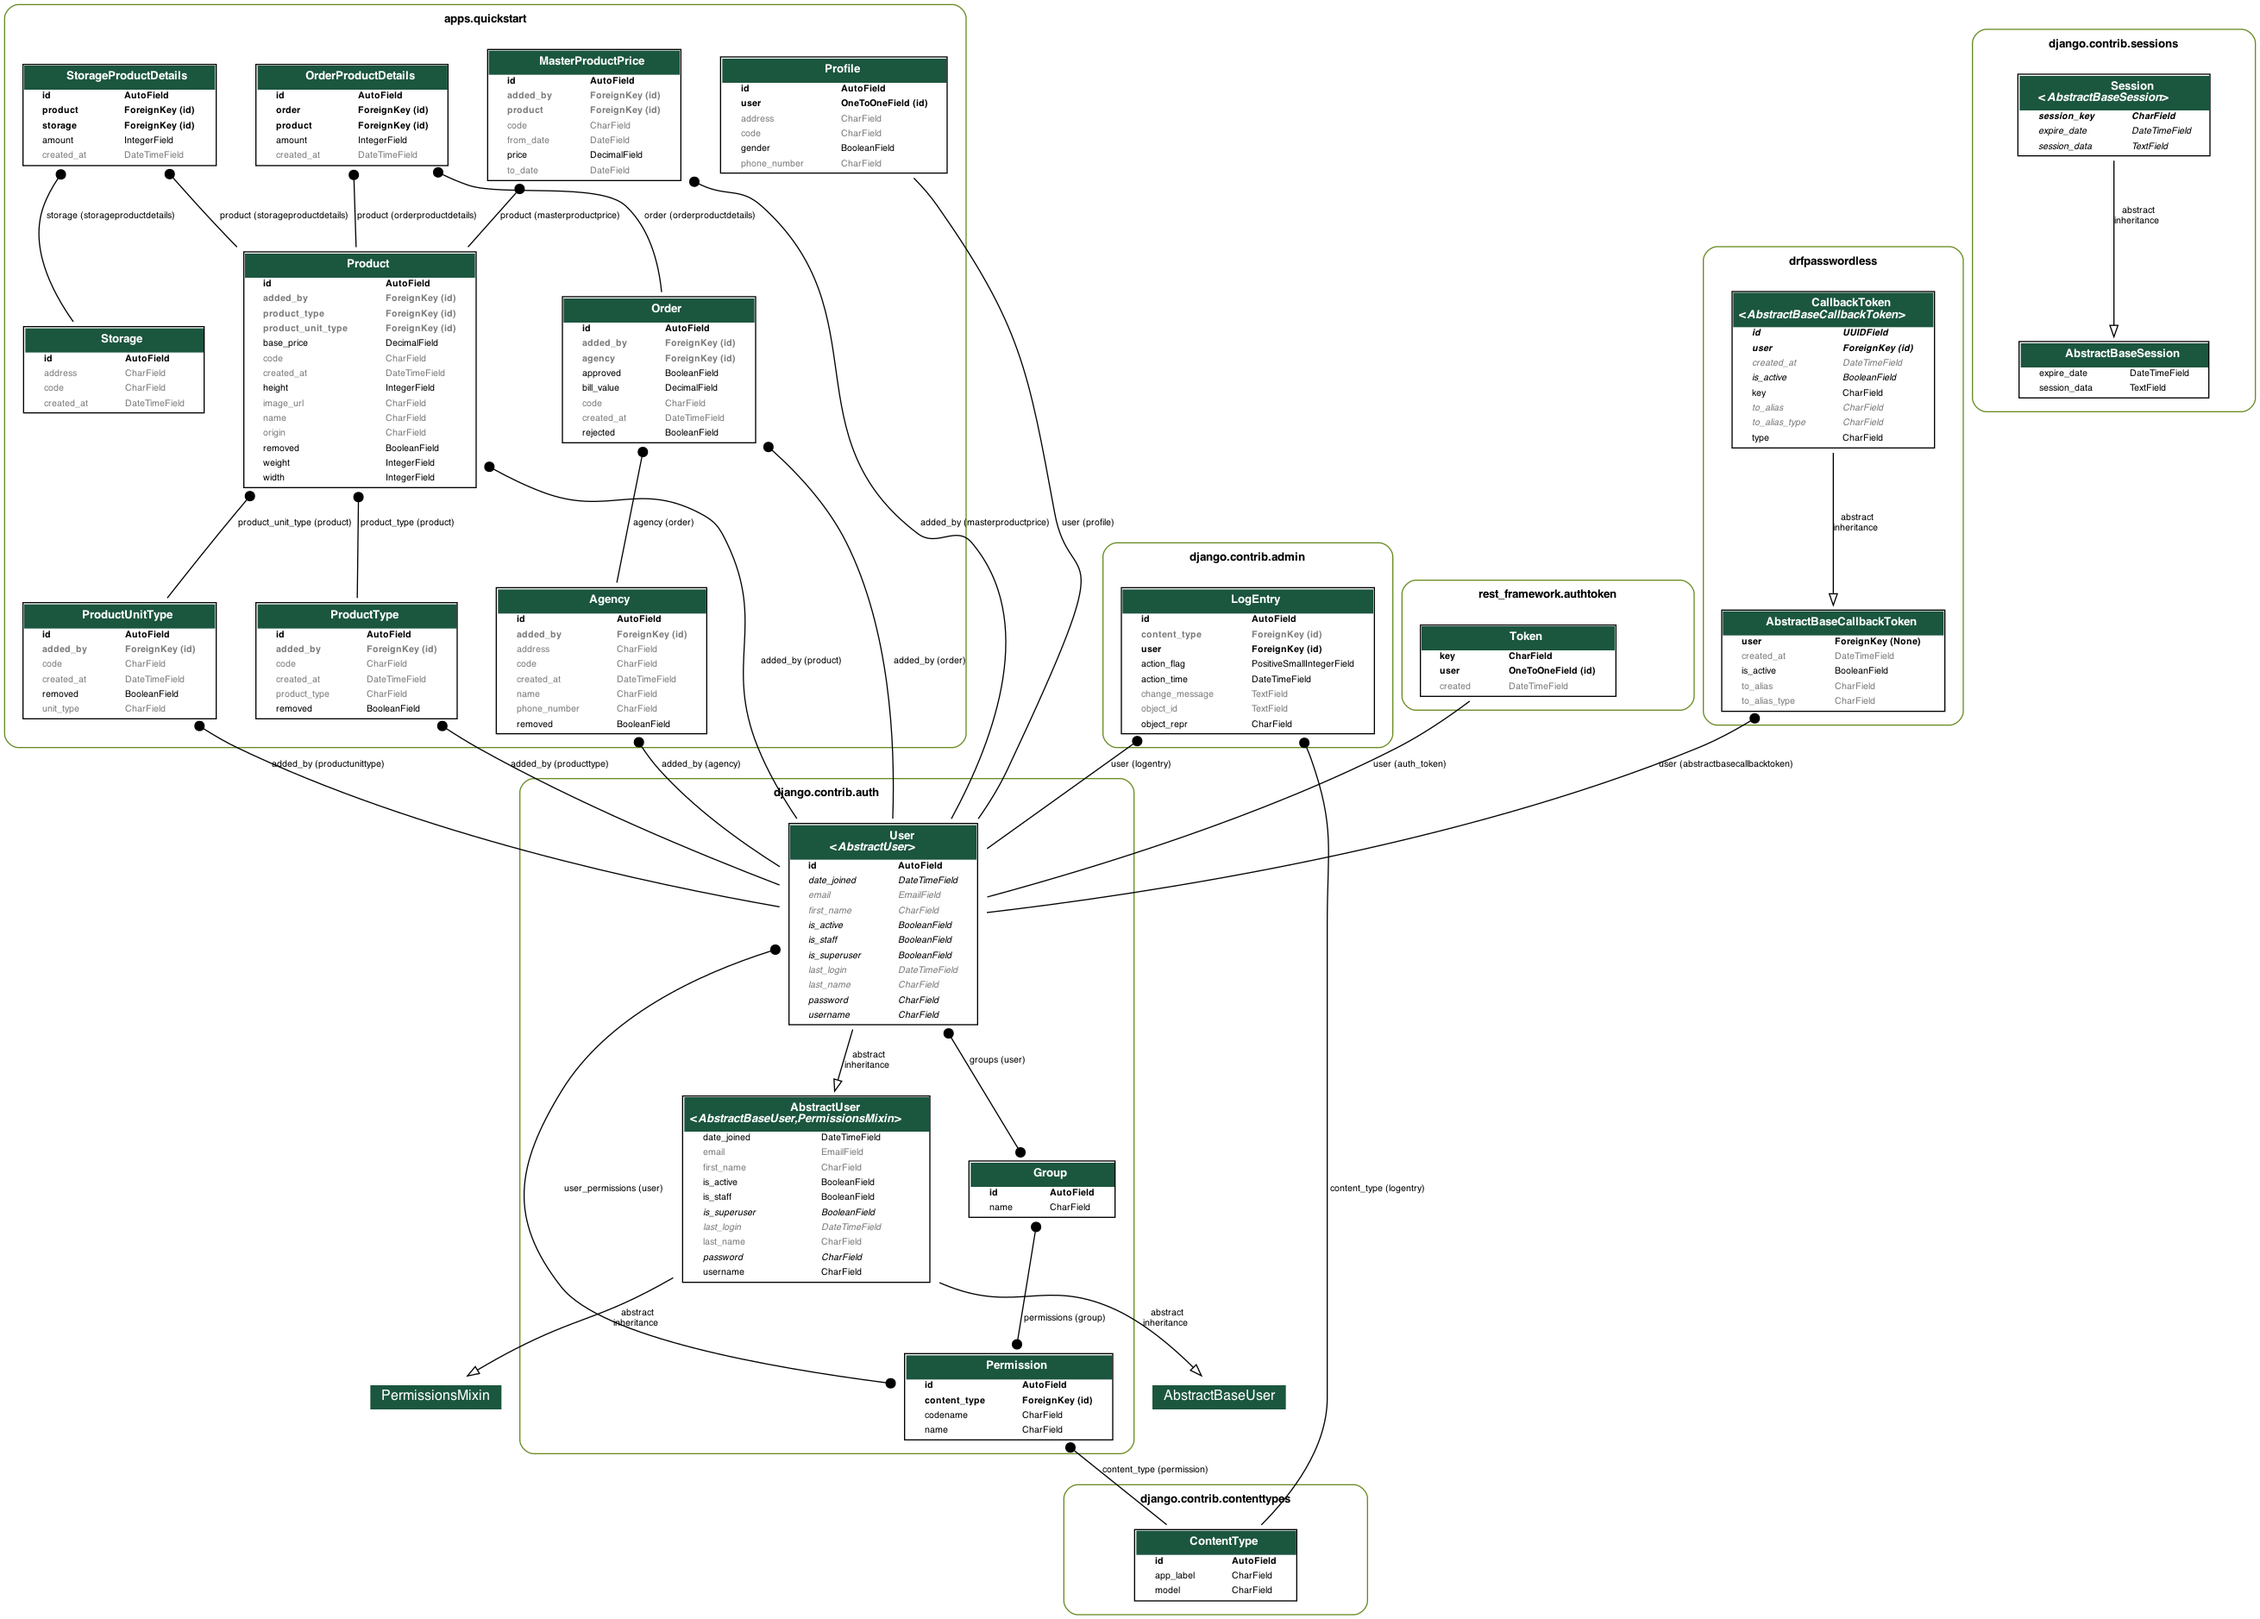
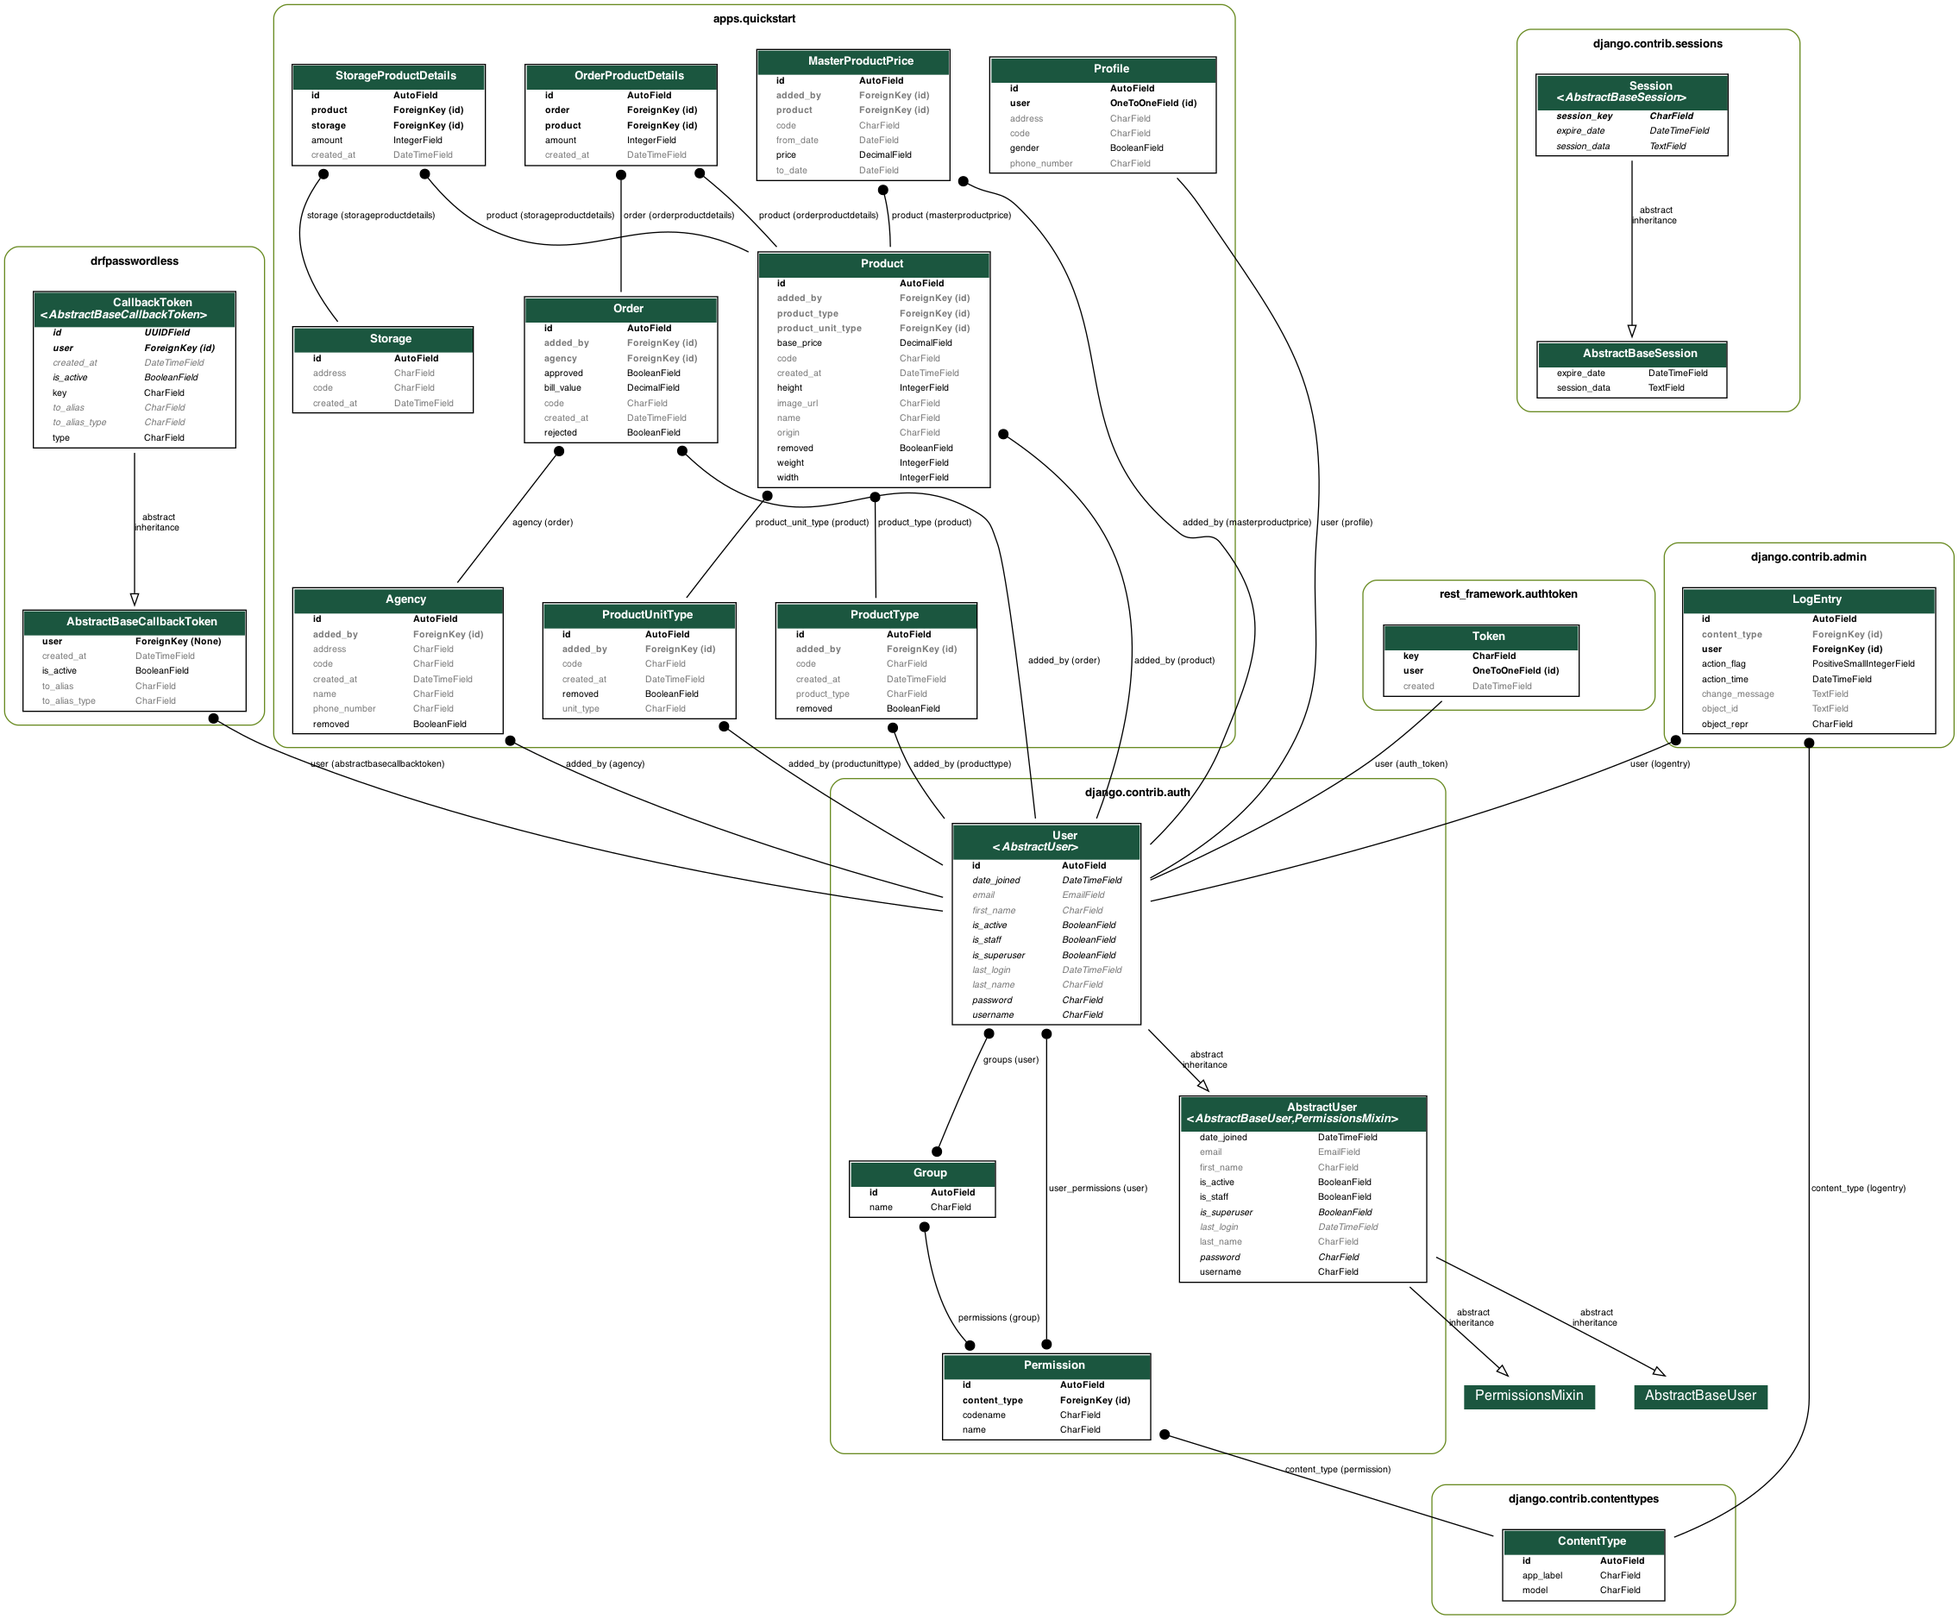
update heroku

diff --git a/apps/quickstart/views.py b/apps/quickstart/views.py
@@ -1,9 +1,11 @@
 from django.shortcuts import render
-from django.contrib.auth.models import User, Group
+from django.contrib.auth.models import User, Group, Permission
 from rest_framework.views import APIView
 from rest_framework.viewsets import ModelViewSet
 from rest_framework.renderers import JSONRenderer
 from rest_framework.response import Response
+
+from rest_framework.permissions import DjangoModelPermissions
 
 from apps.quickstart.models import (
     Profile,
@@ -18,6 +20,7 @@ from apps.quickstart.models import (
 from apps.quickstart.serializers import (
     UserSerializer,
     GroupSerializer,
+    PermissionSerializer,
     ProfileSerializer,
     AgencySerializer,
     ProductSerializer,
@@ -40,6 +43,10 @@ class UserViewSet(ModelViewSet):
 class GroupViewSet(ModelViewSet):
     queryset = Group.objects.all().order_by('id')
     serializer_class = GroupSerializer
+
+class PermissionViewSet(ModelViewSet):
+    queryset = Permission.objects.all().order_by('id')
+    serializer_class = PermissionSerializer
 
 
 class ProfileViewSet(ModelViewSet):

diff --git a/apps/quickstart/serializers.py b/apps/quickstart/serializers.py
@@ -1,6 +1,7 @@
 from django.contrib.auth.models import (
     User,
-    Group
+    Group,
+    Permission
 )
 from rest_framework import serializers
 
@@ -49,12 +50,18 @@ class UserSerializer(serializers.ModelSerializer):
         user.save()
 
         Profile.objects.filter(user=user).update(**profile_data)
+
         return user
 
 
-class GroupSerializer(serializers.HyperlinkedModelSerializer):
+class GroupSerializer(serializers.ModelSerializer):
     class Meta:
         model = Group
+        fields = '__all__'
+
+class PermissionSerializer(serializers.ModelSerializer):
+    class Meta:
+        model = Permission
         fields = '__all__'
 
 

diff --git a/apps/quickstart/urls.py b/apps/quickstart/urls.py
@@ -10,6 +10,7 @@ from drf_yasg import openapi
 from apps.quickstart.views import (
     UserViewSet,
     GroupViewSet,
+    PermissionViewSet,
     ProfileViewSet,
     AgencyViewSet,
     ProductViewSet,
@@ -33,6 +34,7 @@ schema_view = get_schema_view(
 router = routers.DefaultRouter()
 router.register(r'users', UserViewSet)
 router.register(r'groups', GroupViewSet)
+router.register(r'permissions', PermissionViewSet)
 router.register(r'profiles', ProfileViewSet)
 router.register(r'agencies', AgencyViewSet)
 router.register(r'products', ProductViewSet)
